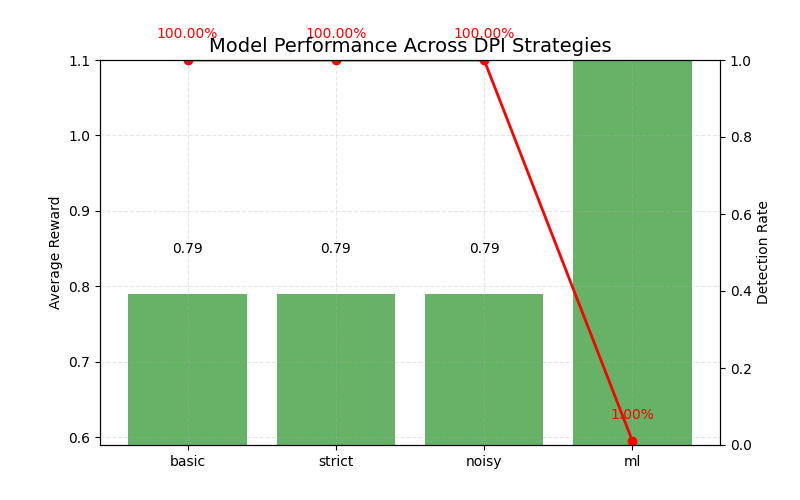
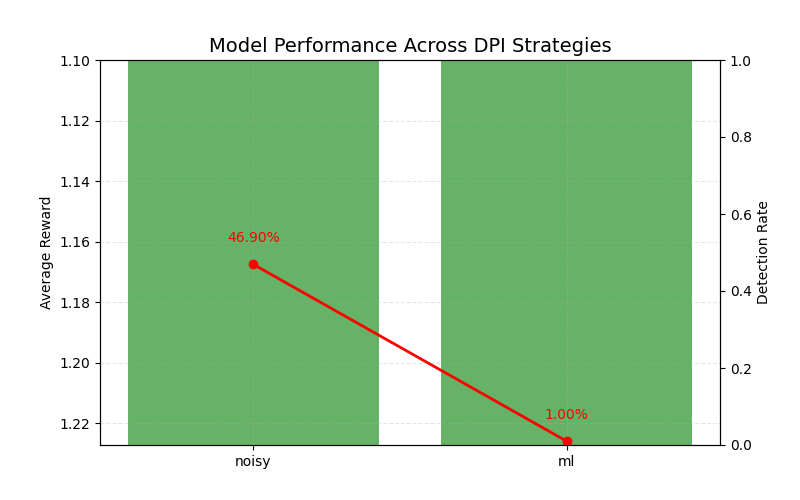
enhanced performance against noisy dpi

diff --git a/rl/vpn_env.py b/rl/vpn_env.py
@@ -1,3 +1,12 @@
+import gymnasium as gym
+from gymnasium import spaces
+import numpy as np
+import random
+import pandas as pd
+import joblib
+
+from dpi.mock_dpi import MockDPI
+
 class VPNObfuscationEnv(gym.Env):
     """
     Environment for the VPN Obfuscation task.
@@ -92,10 +101,16 @@ class VPNObfuscationEnv(gym.Env):
         latency_penalty = mean_latency / 250.0    # Lower scaling, use updated latency
         step_penalty = 0.01                       # small negative reward per step
 
-        if detected:
-            reward -= 0.2  # Lower detection penalty
+        if self.dpi_strategy == "basic":
+            if detected:
+                reward -= 1.0  # less penalty for detection
+            else:
+                reward += 2.0  # Bigger bonus for evasion
         else:
-            reward += 1.0  # Bonus for evading detection
+            if detected:
+                reward -= 0.2  # Lower detection penalty
+            else:
+                reward += 1.0  # Bonus for evading detection
 
         reward -= latency_penalty
         reward -= step_penalty
@@ -135,4 +150,11 @@ class VPNObfuscationEnv(gym.Env):
             return bool(prediction)  # 1 = detected, 0 = not detected
 
         # Rule-based fallbacks
-        return (jitter > 90 or size_mod > 90 or random.random() < 0.05)
+        if self.dpi_strategy == "strict":
+            return (jitter > 50 or size_mod > 30 or random.random() < 0.10)
+        elif self.dpi_strategy == "noisy":
+            return random.random() < 0.5
+        elif self.dpi_strategy == "basic":
+            return ((jitter + abs(size_mod)) > 130)
+            # return (jitter > 100 or abs(size_mod) > 50)
+        # return (jitter > 90 or size_mod > 90 or random.random() < 0.05)

diff --git a/rl/sac_maml_vpn.py b/rl/sac_maml_vpn.py
@@ -1,14 +1,14 @@
 # Import necessary libraries
 # Numpy is used for numerical computations
 import numpy as np
-# Used for file operations (e.g. creating directories)
 import os
-# Used for creating a Monitor instance to wrap the environment
-from stable_baselines3.common.monitor import Monitor
-# Used for creating the environment
-from rl.vpn_env import VPNObfuscationEnv
-# Used for timing how long the script takes to run
 import time
+import shutil
+
+from stable_baselines3 import SAC
+from stable_baselines3.common.monitor import Monitor
+
+from rl.vpn_env import VPNObfuscationEnv
 
 # Define hyperparameters
 meta_batch_size = 1                     # Number of tasks per meta-iteration

diff --git a/scripts/evaluate_policy.py b/scripts/evaluate_policy.py
@@ -1,8 +1,11 @@
 # Evaluate model performance across different DPI strategies
-
+import numpy as np
+import matplotlib.pyplot as plt
+from stable_baselines3 import SAC
+from rl.vpn_env import VPNObfuscationEnv
 # Config
 # List of DPI strategies to evaluate
-strategies = ["basic", "strict", "noisy", "ml"]
+strategies = ["noisy", "ml"]
 # Number of episodes to evaluate per strategy
 episodes = 10
 # Number of steps per episode
